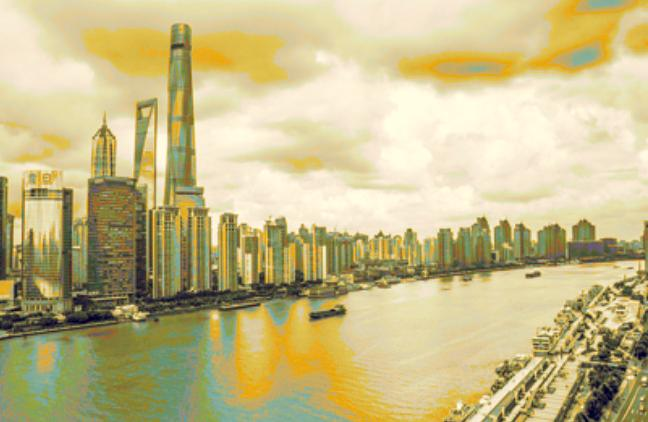
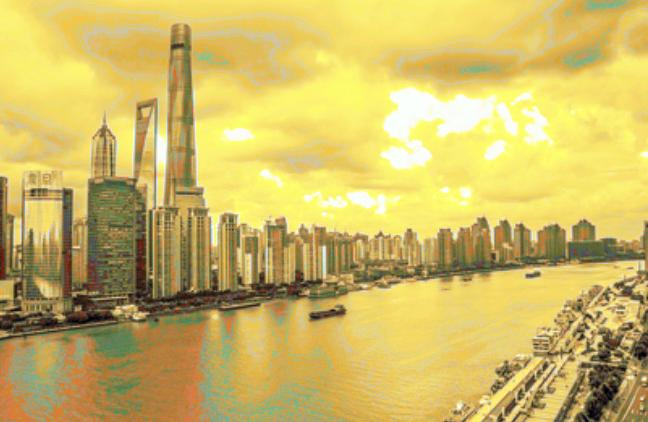
简化例子

diff --git a/knn-style-transfer/knn-style-transfer.py b/knn-style-transfer/knn-style-transfer.py
@@ -14,8 +14,6 @@ block_size = 1
 # Y: 储存中心像素格的色彩值
 def read_style_image(file_name, size=block_size):
     img = io.imread(file_name)
-    # plt.imshow(img)
-    # plt.show()
 
     img = rgb2lab(img)
 
@@ -42,42 +40,21 @@ def read_style_image(file_name, size=block_size):
             Y.append(img[x, y, 1:])
     return X, Y
 
-
-def create_dataset(data_dir, number):
+# 将所有风格图像的 X -> Y 映射整合为训练数据
+def create_dataset(data_dir):
     X = []
     Y = []
-    n = 0
     for file in os.listdir(data_dir):
         X0, Y0 = read_style_image(os.path.join(data_dir, file))
         X.extend(X0)
         Y.extend(Y0)
-        n += 1
-        if n >= number:
-            break
+
     return X, Y
 
 
-# 调用构建映射数据集的函数
-# 风格图像文件夹路径
-# 读取风格图像文件夹中的number张图像，这里number=1
-# 输出由风格图像构建的映射数据集
-print("reading...")
-X, Y = create_dataset("./vangogh-style/", 1)
-print("finish reading.")
-
-# 训练KNN回归模型
-print("fitting...")
-nbrs = KNeighborsRegressor(n_neighbors=4, weights='distance')
-nbrs.fit(X, Y)
-print("finish fitting")
-
 # 输入内容图像，根据已经建立好的kNN模型，输出色彩风格迁移后的图像。
-
-
 def rebuild(file_name, size=block_size):
     img = io.imread(file_name)
-    # plt.imshow(img)
-    # plt.show()
 
     img = rgb2lab(img)
     w, h = img.shape[:2]
@@ -113,14 +90,20 @@ def rebuild(file_name, size=block_size):
     return photo
 
 
+
+X, Y = create_dataset("./vangogh-style/")
+
+# 训练KNN回归模型
+nbrs = KNeighborsRegressor(n_neighbors=4, weights='distance')
+nbrs.fit(X, Y)
+
 # 生成图像
 new_photo = rebuild("./input.jpg")
-rgb_new_photo = lab2rgb(new_photo)
 
 # 保存输出图像
-plt.imsave("output.jpg", rgb_new_photo)
+plt.imsave("output.jpg", lab2rgb(new_photo))
 
 # 打印输出图像
-plt.imshow(rgb_new_photo)
+plt.imshow(lab2rgb(new_photo))
 plt.show()
 print(new_photo.shape)
